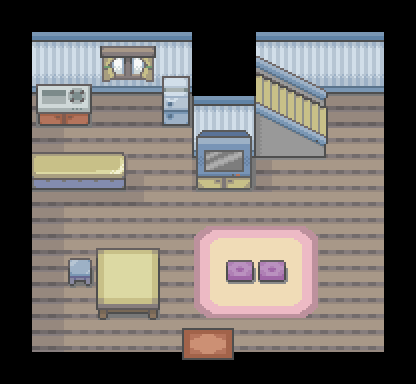
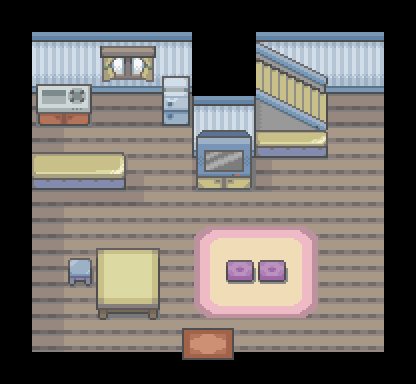
Fixed cut-scenes to include room changes

Changed region(s): [[0.5938, 0.0938, 0.8125, 0.4062]]

diff --git a/game.py b/game.py
@@ -71,8 +71,38 @@ class Controller(object):
                     if action[0] in ["0", "1", "2", "3", "4", "5"]:
                         npc, direction = action.split(":")
                         self.room.non_player_characters[int(npc)].move(direction)
+                    ##== Change Rooms ==##
                     if (action[0] == 'C'):
-                        print "working"
+                        change = action.split(":")
+                        while(self.fade_count < 510):
+                            self.fade_count += 5
+                            if (self.fade_count < 255):
+                                self.fade.set_alpha(self.fade_count)
+                            elif (self.fade_count == 255):
+                                self.room = self.rooms[int(change[1])]
+                                self.cadet.x = int(change[2])
+                                self.cadet.y = int(change[3])
+                            elif (self.fade_count > 255 and self.fade_count < 510):
+                                self.fade.set_alpha(510 - self.fade_count)
+                            else:
+                                cut_change = False
+                            self.surface = self.room.cheap_display(self.surface, self.cadet)
+                            self.surface.blit(self.fade, (0, 0))
+
+                            pygame.display.update()
+                            self.fpsClock.tick(self.FPS)
+
+                        self.fade_count = 0
+
+                    ##== Do Things with Objects ==##
+                    if (action[0] == 'O'):
+                        stuff = action.split(":")
+                        if action[1] == 'F':
+                            if action[2] == 'R':
+                                del self.room.fore_obj[(int(stuff[1]))]
+
+                        #if action[1] == 'B':
+
 
                 self.cut_scene_counter += 1
 

diff --git a/room_data.py b/room_data.py
@@ -37,10 +37,12 @@ class Room:
         for cdt in self.non_player_characters:
             surface.blit(cdt.show(),(cdt.x-cadet.x, cdt.y-cadet.y))
 
-        surface.blit(cadet.show(), (139, 131))
+        cadet.show(surface)
 
         for img in self.fore_obj:
             surface.blit(img[0], (img[1]-cadet.x, img[2]-cadet.y))
+
+        cadet.status(surface)
 
         pygame.display.update()
 
@@ -53,7 +55,7 @@ class Room:
         for cdt in self.non_player_characters:
             surface.blit(cdt.show(), (cdt.x - cadet.x, cdt.y - cadet.y))
 
-        surface.blit(cadet.show(), (139, 131))
+        cadet.show(surface)
 
         for img in self.fore_obj:
             surface.blit(img[0], (img[1] - cadet.x, img[2] - cadet.y))
@@ -326,7 +328,8 @@ home_room = Room(pygame.image.load("surfaces/HOME_room.png"),
 home_main = Room(pygame.image.load("surfaces/HOME_main.png"),
                  [[pygame.image.load("sprites/objects/box.png"),96,136]],
                  [[pygame.image.load("sprites/objects/HOME_table.png"),96,256],
-                  [pygame.image.load("sprites/objects/HOME_counter.png"),32,160]],
+                  [pygame.image.load("sprites/objects/HOME_counter.png"),32,160],
+                  [pygame.image.load("sprites/objects/stair_bit.png"),279,111]],
                  [0 ,1 ,2 ,3 ,4 ,5 ,6 ,7 ,8 ,9 ,10,11,12,
                   13,                                 25,
                   26,27,28,29,30,31,32,33,34,35,36,37,38,

diff --git a/characters.py b/characters.py
@@ -28,20 +28,24 @@ class SpritePack:
 class Player:
     def __init__(self, spritePack, x, y):
         self.sprites = spritePack
+        self.status_bar = pygame.image.load("sprites/status/status_bar.png")
         self.health = 100
         self.x = x
         self.y = y
         self.face = 0
         self.pace = 0
 
-    def show(self):
+    def status(self, surface):
+        surface.blit(self.status_bar, (0, 0))
+
+    def show(self, surface):
         self.pace = self.pace%16
         if self.pace == 0:
-            return (self.sprites[(self.face*3)])
+            surface.blit((self.sprites[(self.face*3)]),(139, 131))
         elif (self.pace < 8):
-            return (self.sprites[(self.face*3+1)])
+            surface.blit((self.sprites[(self.face*3+1)]),(139, 131))
         else:
-            return (self.sprites[self.face*3+2])
+            surface.blit((self.sprites[self.face*3+2]), (139, 131))
 
     def move_up(self, width, bounds):
         self.face = 0

diff --git a/menu.py b/menu.py
@@ -7,12 +7,14 @@ class Menu:
         self.surface = surface
         self.menu = pygame.image.load("sprites/decal/emblem.png")
         self.play_button = pygame.image.load("sprites/decal/play_button.png")
+        self.logo = pygame.image.load("sprites/decal/game_menu.png")
 
     def run(self):
         self.surface.fill((0,0,0))
 
         self.surface.blit(self.menu, (2, 16))
-        self.surface.blit(self.play_button, (25,225))
+        self.surface.blit(self.logo, (0,0))
+        self.surface.blit(self.play_button, (20,230))
 
         (mouse_x, mouse_y) = pygame.mouse.get_pos()
         pygame.display.update()
@@ -24,7 +26,7 @@ class Menu:
 
 
         if pygame.mouse.get_pressed()[0]:
-            if mouse_x > 25 and mouse_x < 125 and mouse_y > 225 and mouse_y < 275:
+            if mouse_x > 20 and mouse_x < 120 and mouse_y > 230 and mouse_y < 280:
                 return "Moving"
             else:
                 return "Menu"

diff --git a/interaction.py b/interaction.py
@@ -5,7 +5,7 @@ from pygame.locals import *
 
 
 ##== Cut-Scenes ==##
-m_o = [["00:d"]*16+["00:r"]*16+["00:d"]*48+["00:r"]*16+["00:d"]*32+["00:r"]*16+["C:2:64,64"],[[0,42,123]]]
+m_o = [["00:d"]*16+["00:r"]*16+["00:d"]*48+["00:r"]*16+["00:d"]*32+["00:r"]*16+["C:2:64:56"],[]]
 
 cut_scenes = [m_o]
 
